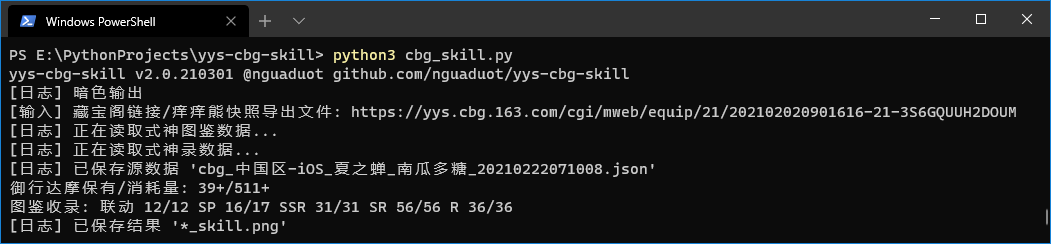
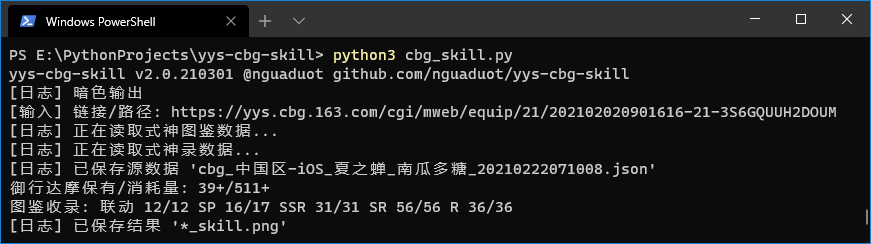
v2.0

Changed region(s): [[0.0, 0.0, 1.0, 1.0], [0.217, 0.0, 0.31, 0.1721], [0.0, 0.0574, 0.186, 0.1148]]

diff --git a/code/cbg_skill.py b/code/cbg_skill.py
@@ -446,7 +446,7 @@ def main():
     print(COPYRIGHT)
     print(log('暗色输出' if PALETTE_DARK else '亮色输出', 'info'))
     if not url_or_path:
-        url_or_path = input(log('藏宝阁链接/痒痒熊快照导出文件: ', 'input')).strip('"\'')
+        url_or_path = input(log('链接/路径: ', 'input')).strip('"\'')
 
     # 读取/抓取数据&解析数据
     thread1 = Thread(target=fetch_cbg_config)
